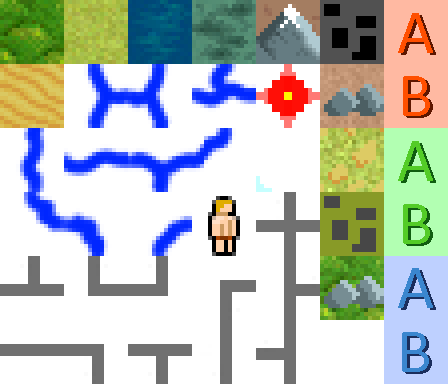
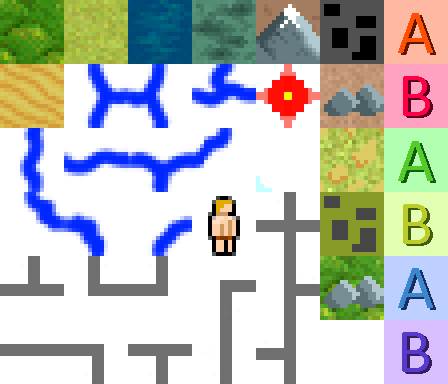
temperature and habitat

Changed region(s): [[0.8438, 0.8125, 1.0, 1.0], [0.8438, 0.5, 1.0, 0.6875], [0.8438, 0.1562, 1.0, 0.3438]]

diff --git a/src/main/kotlin/world/gen/Metamap.kt b/src/main/kotlin/world/gen/Metamap.kt
@@ -12,9 +12,8 @@ import world.RiverExit
 import world.RoadExit
 import world.gen.biomes.Biome
 import world.gen.biomes.*
-import world.gen.habitats.ArcticA
-import world.gen.habitats.TemperateA
-import world.gen.habitats.TropicalA
+import world.gen.biomes.Blank
+import world.gen.habitats.*
 import world.level.CHUNK_SIZE
 import java.lang.Integer.max
 import java.lang.Integer.min
@@ -592,14 +591,48 @@ object Metamap {
                 cell.ruinedBuildings = max(cell.ruinedBuildings, 0)
             }
 
+            // Set temperatures
+            forEachMeta { x,y,cell ->
+                var temp = (y * 0.5f) + NoisePatches.get("metaVariance2", x, y) * 15
+                when (cell.biome) {
+                    Ocean -> temp += 10
+                    Desert -> {
+                        if (biomeNeighbors(x,y,Desert,true) == 8) temp += 15 + Dice.zeroTo(10) + (y/10) else temp += 15 + (y/15)
+                    }
+                    Mountain -> {
+                        if (biomeNeighbors(x,y,Mountain,false) == 4) temp -= 20 + Dice.zeroTo(10) else temp -= 10
+                    }
+                }
+                temp -= cell.height / 2
+                if (biomeNeighbors(x,y,Ocean,false) > 0) temp += 10 + (y / 7)
+
+                cell.temperature = temp.toInt()
+            }
+            repeat (3) {
+                forEachMeta { x, y, cell ->
+                    var total = 0
+                    DIRECTIONS.from(x, y) { x, y, _ -> if (boundsCheck(x, y)) total += scratches[x][y].temperature }
+                    total = total / 8
+                    cell.temperature = (cell.temperature + total) / 2
+                }
+            }
+
             // Distribute habitats
             forEachMeta { x,y,cell ->
                 if (cell.biome != Ocean) {
-                    val arcticY = habitatArcticY + NoisePatches.get("metaVariance2", x, 0) * 40 - 20
-                    val tropicY = habitatTropicY + NoisePatches.get("metaVariance2", x, 100) * 40 - 20
-                    if (y < arcticY) cell.habitat = ArcticA
-                    else if (y > tropicY) cell.habitat = TropicalA
-                    else cell.habitat = TemperateA
+                    cell.habitat = if (cell.temperature < 40) ArcticA
+                        else if (cell.temperature < 70) TemperateA
+                        else TropicalA
+                }
+            }
+            forEachMeta { x,y,cell ->
+                if (NoisePatches.get("metaHabitats", x, y) > 0.5f) {
+                    when (cell.habitat) {
+                        ArcticA -> cell.habitat = ArcticB
+                        TemperateA -> cell.habitat = TemperateB
+                        TropicalA -> cell.habitat = TropicalB
+                        else -> {}
+                    }
                 }
             }
 

diff --git a/src/main/kotlin/world/gen/ChunkMeta.kt b/src/main/kotlin/world/gen/ChunkMeta.kt
@@ -16,6 +16,7 @@ class ChunkMeta(
     val x: Int = 0,
     val y: Int = 0,
     val height: Int = 0,
+    val temperature: Int = 0,
     val riverExits: MutableList<RiverExit> = mutableListOf(),
     val riverBlur: Float = 0f,
     val hasLake: Boolean = false,
@@ -49,6 +50,7 @@ class ChunkScratch(
     var y: Int = 0
 ) {
     var height = -1
+    var temperature = 60
     var riverParentX = -1
     var riverParentY = -1
     var riverChildren: MutableList<XY> = mutableListOf()
@@ -69,6 +71,7 @@ class ChunkScratch(
         x = x,
         y = y,
         height = height,
+        temperature = temperature,
         riverExits = riverExits,
         riverBlur = riverBlur,
         hasLake = hasLake,
